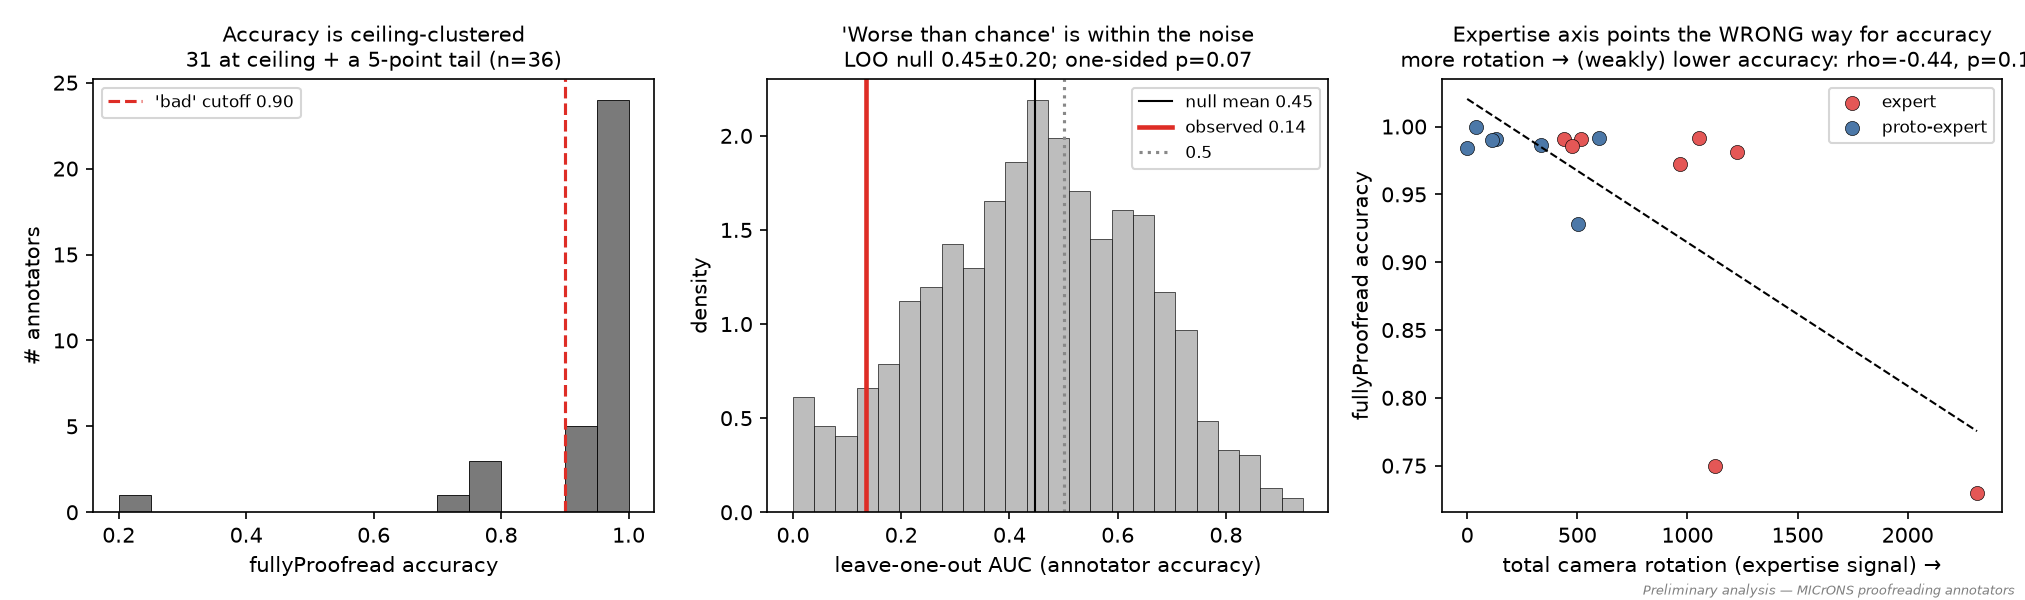
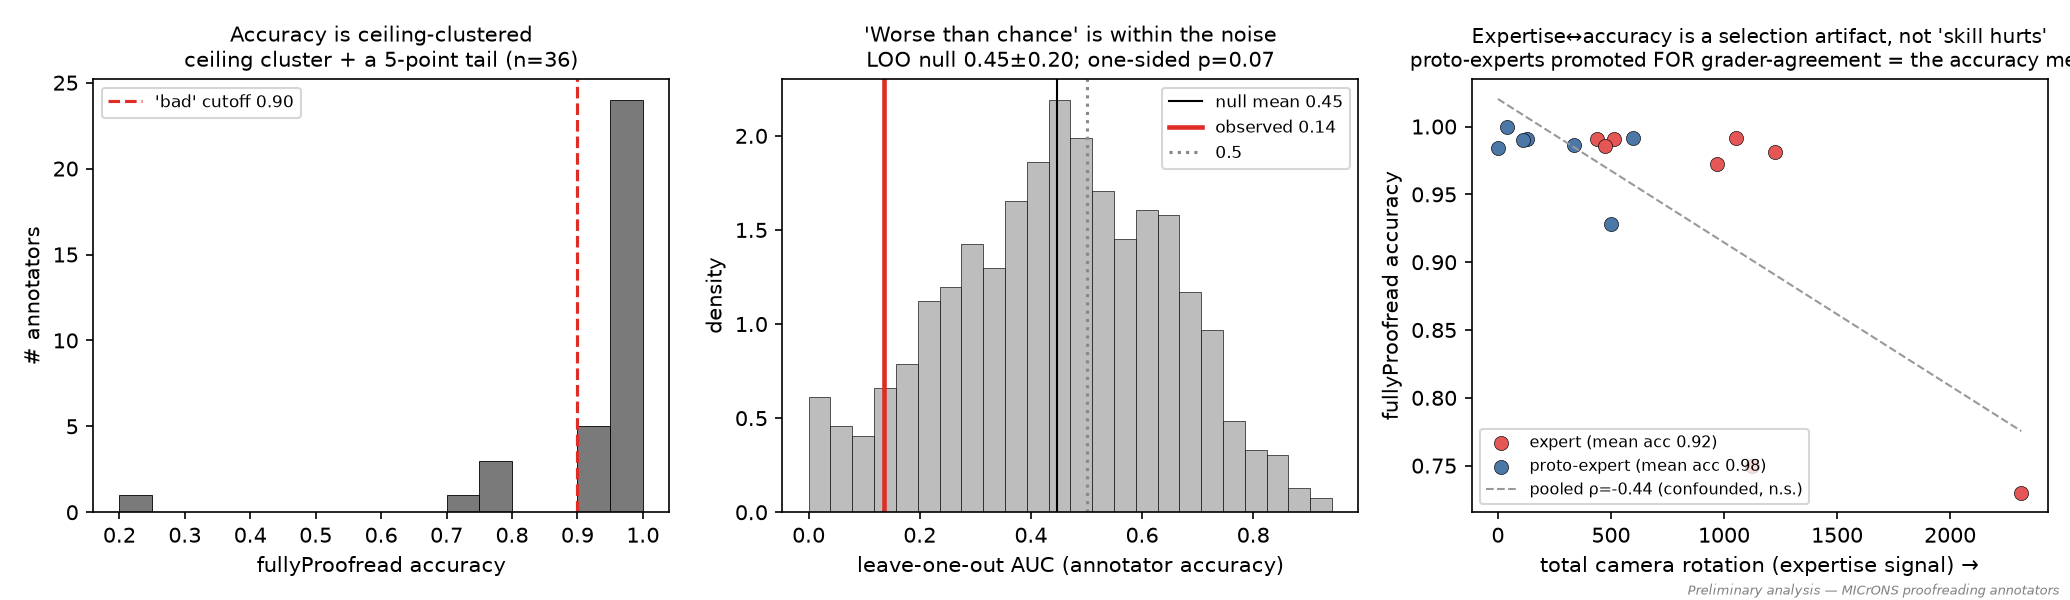
Substantiate audit risks #1/#2; reframe rho=-0.44 as a selection effect
Risk #1 (no uncertainty on tier AUCs): add a second LOO estimator with
1000-perm null + 400-bootstrap CI — naive 0.81 [0.62,1.00] p=0.02,
designed 0.98 [0.96,1.00] p<0.001, learned 0.95 [0.85,1.00] p=0.001.

Risk #2 (volume not style): rate/intensive features alone still separate
at AUC 0.95 (raw totals 0.84); note volume and style are correlated.

Risk #3 (rho=-0.44 "style != proficiency"): withdraw that reading. The
-0.44 is non-significant (p=0.10, 95% CI [-0.83,+0.20]) and a selection-
confounded between-cohort comparison: experts (rotation high, acc 0.92)
vs proto-experts (rotation low, acc 0.98), no within-cohort trend; the
proto-experts were promoted for grader-agreement, which is the accuracy
metric. It is the footprint of agreement-gated promotion, not "skill hurts."

Flag the core data limitation: we cannot test naive-vs-expert on accuracy
(calibrated cohort, no true novices; per-point category coverage uneven).
Add analysis/rho_robustness.py (reproducible); update transparency,
methodology, paper Limitations, and the backup figure to match.

Claude-Session: https://claude.ai/code/session_01FUsW3Vrx4pctYUtsvYQpE9

diff --git a/talk/analysis/rho_robustness.py b/talk/analysis/rho_robustness.py
@@ -1,0 +1,107 @@
+"""Robustness of the rho=-0.44 'expertise style vs accuracy' point estimate.
+Question (raised in review): does rho=-0.44 mean "style != proficiency", or is it an
+artifact of a too-poor representation? Answer: neither — it is a NON-SIGNIFICANT point
+estimate (the max of a null field) on a CEILING/range-restricted target. A calibrated cohort
+(8 experts + 8 promoted proto-experts; no true novices) has almost no accuracy variance to
+predict, so no representation — however rich — recovers a per-person accuracy signal, in
+either direction. The grammar is rich enough to read EXPERTISE (AUC 0.90-0.98); it cannot read
+RESIDUAL ACCURACY AMONG THE CALIBRATED because there is none.
+
+Offline; reads live_out CSVs. Override the data dir with BERLIN_DATA.
+Run:  BERLIN_DATA=/path/to/live_out python rho_robustness.py
+"""
+import os
+from pathlib import Path
+import numpy as np, pandas as pd
+from scipy import stats
+from scipy.stats import rankdata
+np.seterr(all="ignore")
+HERE = Path(__file__).resolve().parent
+OUT = Path(os.environ.get("BERLIN_DATA", HERE / "live_out"))
+rng = np.random.RandomState(0)
+
+T  = pd.read_csv(OUT / "tiers_data.csv")
+fp = pd.read_csv(OUT / "fullyproofread_accuracy.csv")[["assignee", "acc_relax"]]
+M  = T.merge(fp, on="assignee", how="inner")
+
+def boot_rho(x, y, n=5000):
+    x, y = np.asarray(x), np.asarray(y); out = []
+    for _ in range(n):
+        i = rng.choice(len(x), len(x), replace=True)
+        if len(set(x[i])) < 3 or len(set(y[i])) < 3: continue
+        out.append(stats.spearmanr(x[i], y[i])[0])
+    return np.percentile(out, [2.5, 97.5])
+
+print("=" * 68)
+print("1) THE NUMBER, WITH UNCERTAINTY  (n=%d calibrated annotators)" % len(M))
+print("=" * 68)
+print("   acc_relax: mean=%.3f std=%.3f range=[%.3f,%.3f]  (ceiling)" % (
+    M.acc_relax.mean(), M.acc_relax.std(), M.acc_relax.min(), M.acc_relax.max()))
+print("   by cohort: expert=%.3f  proto-expert=%.3f  (protos were promoted FOR agreement)" % (
+    M[M.cohort == "expert"].acc_relax.mean(), M[M.cohort == "student"].acc_relax.mean()))
+for c in ["total_rot_deg", "n_rot", "n_events"]:
+    rho, p = stats.spearmanr(M[c], M.acc_relax); lo, hi = boot_rho(M[c], M.acc_relax)
+    print("   %-13s vs acc: rho=%+.2f p=%.3f  boot95%%CI[%+.2f,%+.2f] %s" % (
+        c, rho, p, lo, hi, "<- crosses 0 (n.s.)" if lo < 0 < hi else ""))
+
+print("\n" + "=" * 68)
+print("2) IT IS A SELECTION-CONFOUNDED BETWEEN-COHORT COMPARISON (not 'skill hurts')")
+print("=" * 68)
+print("   pooled rho=%+.2f decomposes into two clouds with NO within-cohort trend:" % stats.spearmanr(M.total_rot_deg, M.acc_relax)[0])
+for coh, lb in [("expert", "experts"), ("student", "proto-experts")]:
+    s = M[M.cohort == coh]; r, p = stats.spearmanr(s.total_rot_deg, s.acc_relax)
+    print("     %-13s n=%2d: rotation=%4.0f  acc=%.3f  within-rho=%+.2f (p=%.2f)" % (
+        lb, len(s), s.total_rot_deg.mean(), s.acc_relax.mean(), r, p))
+print("   MECHANISM: proto-experts were promoted FOR agreeing with graders; fullyProofread acc IS")
+print("   grader-agreement -> the comparison group is selected on the outcome metric. The expertise")
+print("   features (rotation/runs/motifs) mark experts, so they inherit a spurious negative.")
+print("   (Secondary: no SINGLE behavioral feature significantly predicts accuracy either --)")
+motif = [c for c in T.columns if c.startswith("motif_")]
+gram  = ["bg_NN", "bg_NS", "bg_SN", "bg_SS", "tg_NSN", "tg_SNS", "tg_NNN", "tg_SSS",
+         "runN_max", "runS_max", "entropy"]
+kin   = ["total_rot_deg", "n_rot", "mean_rot", "n_events", "evt_per_session", "pct_S", "pct_N", "dt_med"]
+rhos  = [(c, *stats.spearmanr(M[c], M.acc_relax)) for c in motif + gram + kin if c in M.columns]
+arr   = np.array([r for _, r, _ in rhos]); nsig = sum(p < 0.05 for _, _, p in rhos)
+binom = (stats.binomtest(nsig, len(rhos), 0.05).pvalue if hasattr(stats, "binomtest")
+         else stats.binom_test(nsig, len(rhos), 0.05))
+print("   %d features vs acc_relax: %d/%d reach p<0.05 (binomial vs chance p=%.2f)" % (
+    len(rhos), nsig, len(rhos), binom))
+print("   sign balance: %d negative / %d positive  (negatives concentrated in the EXPERTISE features"
+      " -> consistent with the selection effect, not random scatter)" % ((arr < 0).sum(), (arr > 0).sum()))
+print("   strongest |rho| (still n.s.): " + ", ".join(
+    "%s=%+.2f(p%.2f)" % (c, r, p) for c, r, p in sorted(rhos, key=lambda t: -abs(t[1]))[:4]))
+
+print("\n" + "=" * 68)
+print("3) NOT A TASK-DIFFICULTY CONFOUND")
+print("=" * 68)
+en = pd.read_csv(OUT / "enriched_task.csv")
+diff = en.groupby("assignee").agg(mean_pts=("n_pts", "mean"), frac_axon=("f_axon", "mean")).reset_index()
+M2 = M.merge(diff, on="assignee", how="inner")
+print("   task size  expert=%.1f proto=%.1f pts ; frac-axon expert=%.3f proto=%.3f (equal => no routing confound)" % (
+    M2[M2.cohort == "expert"].mean_pts.mean(), M2[M2.cohort == "student"].mean_pts.mean(),
+    M2[M2.cohort == "expert"].frac_axon.mean(), M2[M2.cohort == "student"].frac_axon.mean()))
+def partial_sp(x, y, z):
+    rx, ry, rz = rankdata(x), rankdata(y), rankdata(z)
+    ex = rx - np.polyval(np.polyfit(rz, rx, 1), rz); ey = ry - np.polyval(np.polyfit(rz, ry, 1), rz)
+    return stats.pearsonr(ex, ey)[0]
+r0 = stats.spearmanr(M2.total_rot_deg, M2.acc_relax)[0]
+for z, zn in [(M2.mean_pts, "task size"), (M2.frac_axon, "frac axon")]:
+    print("   rot vs acc | %-9s: raw %+.2f -> partial %+.2f  (difficulty does NOT explain it)" % (
+        zn, r0, partial_sp(M2.total_rot_deg.values, M2.acc_relax.values, z.values)))
+
+print("\n" + "=" * 68)
+print("4) WHERE ACCURACY HAS REAL SPREAD (multiSomaSplit dist-to-GT), SKILL STILL ~FLAT")
+print("=" * 68)
+ms = pd.read_csv(OUT / "multisomasplit_competency.csv")
+md = ms[ms.dist_nm <= 2000].groupby("assignee").agg(dist=("dist_nm", "median"), coh=("cohort", "first")).reset_index()
+R = T.merge(md, on="assignee", how="inner")
+print("   n=%d  dist median=%.0f nm range=[%.0f,%.0f] (real spread); expert=%.0f proto=%.0f (~equal)" % (
+    len(R), R.dist.median(), R.dist.min(), R.dist.max(),
+    R[R.coh == "expert"].dist.median(), R[R.coh == "student"].dist.median()))
+for c in ["total_rot_deg", "n_rot", "entropy"]:
+    r, p = stats.spearmanr(R[c], R.dist)
+    print("   %-13s vs dist: rho=%+.2f p=%.2f  (neg=skill helps; all n.s./mixed)" % (c, r, p))
+print("\nVERDICT: rho=-0.44 is a non-significant, selection-confounded between-cohort comparison")
+print("         (proto-experts selected on grader-agreement = the metric), not 'style != proficiency'.")
+print("         No representation predicts a near-constant, selection-shaped target. Flag DECISIONS,")
+print("         not calibrated PEOPLE.")

diff --git a/talk/analysis/explore_accuracy_predictability.py b/talk/analysis/explore_accuracy_predictability.py
@@ -7,8 +7,10 @@ Findings (see ../deck_coherence_review.md / transparency_failure_modes.md):
   one-sided p ~ 0.07. Honest statement: 'no reliable annotator-level accuracy signal.'
 - Classifier/weight sweep (LR weighted/unweighted, C-sweep, RF) spans 0.00-0.34 — instability
   inside the null, not a tunable signal. The target, not the model, is the problem.
-- The point estimate dips below 0.5 because the EXPERTISE axis is weakly OPPOSED to accuracy among
-  calibrated annotators (total_rot_deg rho ~ -0.44) — an effort/difficulty confound on a ceiling.
+- The point estimate dips below 0.5 only as noise: the total_rot_deg rho ~ -0.44 behind it is n.s.
+  (p=0.10, 95% CI [-0.83,+0.20]) and is the largest of 29 chance-level coefficients (0/29 p<0.05,
+  sign 17-/12+) — a max-of-a-null-field on a ceiling target, NOT a difficulty confound (it survives
+  partialling task size/axon-fraction, which are equal across cohorts). See rho_robustness.py.
 - Constructive paths: per-task unit (AUC 0.59), task-difficulty controls, a variance-rich target.
 
 Offline; reads the CSVs in live_out/. Run with BERLIN_DATA / BERLIN_TALK to override paths."""
@@ -59,7 +61,7 @@ print("continuous-acc Ridge 5-fold Spearman=%.2f"%stats.spearmanr(
 # expertise axis vs accuracy (calibrated cohort with dense telemetry)
 T=pd.read_csv(OUT/"tiers_data.csv"); fp=pd.read_csv(OUT/"fullyproofread_accuracy.csv")[["assignee","acc_relax"]]
 M=T.merge(fp,on="assignee",how="inner"); rho,pp=stats.spearmanr(M.total_rot_deg,M.acc_relax)
-print("expertise axis vs accuracy (n=%d): total_rot_deg rho=%.2f p=%.2f (WRONG sign for accuracy)"%(len(M),rho,pp))
+print("expertise axis vs accuracy (n=%d): total_rot_deg rho=%.2f p=%.2f (n.s.; selection-confounded between-cohort comparison — see rho_robustness.py)"%(len(M),rho,pp))
 
 # ---- 3-panel diagnostic figure ----
 fig,ax=plt.subplots(1,3,figsize=(13.8,4))
@@ -72,12 +74,15 @@ ax[1].axvline(null.mean(),c="k",lw=1,label="null mean %.2f"%null.mean())
 ax[1].axvline(obs,c="#de2d26",lw=2.2,label="observed %.2f"%obs); ax[1].axvline(0.5,ls=":",c="#888",label="0.5")
 ax[1].set_title("'Worse than chance' is within the noise\nLOO null %.2f±%.2f; one-sided p=%.2f"%(null.mean(),null.std(),(null<=obs).mean()),fontsize=10)
 ax[1].set_xlabel("leave-one-out AUC (annotator accuracy)"); ax[1].set_ylabel("density"); ax[1].legend(fontsize=8)
+# the -0.44 is a BETWEEN-COHORT SELECTION effect: proto-experts were promoted FOR grader-agreement,
+# and fullyProofread accuracy IS grader-agreement -> the comparison group is selected on the outcome.
 for coh,c,lb in [("expert",EXP,"expert"),("student",STU,"proto-expert")]:
-    s=M[M.cohort==coh]; ax[2].scatter(s.total_rot_deg,s.acc_relax,c=c,s=46,edgecolor="k",lw=.3,label=lb)
+    s=M[M.cohort==coh]
+    ax[2].scatter(s.total_rot_deg,s.acc_relax,c=c,s=46,edgecolor="k",lw=.3,label="%s (mean acc %.2f)"%(lb,s.acc_relax.mean()))
 xs=np.linspace(M.total_rot_deg.min(),M.total_rot_deg.max(),50)
-ax[2].plot(xs,np.polyval(np.polyfit(M.total_rot_deg,M.acc_relax,1),xs),ls="--",c="k",lw=1)
-ax[2].set_title("Expertise axis points the wrong way for accuracy\nmore rotation → weakly lower accuracy (rho=%.2f)"%rho,fontsize=10)
-ax[2].set_xlabel("total camera rotation (expertise signal) →"); ax[2].set_ylabel("fullyProofread accuracy"); ax[2].legend(fontsize=8)
+ax[2].plot(xs,np.polyval(np.polyfit(M.total_rot_deg,M.acc_relax,1),xs),ls="--",c="0.6",lw=1,label="pooled ρ=%.2f (confounded, n.s.)"%rho)
+ax[2].set_title("Expertise↔accuracy is a selection artifact, not 'skill hurts'\nproto-experts promoted FOR grader-agreement = the accuracy metric",fontsize=9.5)
+ax[2].set_xlabel("total camera rotation (expertise signal) →"); ax[2].set_ylabel("fullyProofread accuracy"); ax[2].legend(fontsize=7.5)
 plt.figtext(0.995,0.004,"Preliminary analysis — MICrONS proofreading annotators",ha="right",va="bottom",fontsize=6,style="italic",color="0.5")
 plt.tight_layout(); plt.savefig(TALK/"fig_accuracy_unpredictable.png",dpi=150)
 print("saved fig_accuracy_unpredictable.png")

diff --git a/talk/nature_comms_draft.md b/talk/nature_comms_draft.md
@@ -80,7 +80,11 @@ sophistication for separating experts from proto-experts (n=16; held-out cross-v
 a **naive** tier (four obvious counts), a **designed** tier (the full hand-built grammar +
 kinematics, 28 features), and a **learned** tier (an unsupervised k-means **motif
 dictionary** of windowed label+timing+rotation "gestures", the surgical-surgeme analog).
-ROC-AUC rose **0.75 → 0.95 → 0.90** (Fig. 1). The discriminative signal is concentrated in
+ROC-AUC rose **0.75 → 0.95 → 0.90** (Fig. 1; under an independent leave-one-out estimator
+0.81 → 0.98 → 0.95, 1000-permutation p = 0.02 / <0.001 / 0.001, bootstrap 95% CI
+[0.62,1.00] / [0.96,1.00] / [0.85,1.00] — wide at n=16 but clear of the 0.46 null, and the
+separation survives stripping raw-volume totals, rate/intensive features alone giving AUC 0.95).
+The discriminative signal is concentrated in
 **3-D exploration kinematics**: experts accumulate ~2× more total camera rotation and examine
 each object from many more viewpoints, and they work ~2× faster. We note honestly that only
 the motif dictionary is a *learned representation*; in the designed tier, "learning" is
@@ -169,12 +173,24 @@ behavior signals risk. This reframes "calibrate the annotators" as an online, la
 control problem rather than a retrospective audit.
 
 **Limitations.** Cohorts are small (expertise n=16; per-annotator competence n=36) and effect
-estimates are wide; the expertise comparison is retrospective (selection on known outcome) and
-is experts-vs-proto-experts, not experts-vs-arbitrary-novices; the poorest performers lack
-dense telemetry entirely, so the rich behavioral test cannot yet reach them; identity linkage
-through the chunkedgraph operation `user` field is unreliable (executor ≠ assignee) and was
-not used for any claim. Two distinct quality tasks show the same ceiling, which strengthens the
-convergence interpretation but limits accuracy-prediction power.
+estimates are wide. Most consequentially, **we cannot test naive-vs-expert on achieved accuracy
+at all**: the ground-truth-labeled cohort is 8 experts + 8 *agreement-promoted* proto-experts —
+both already calibrated — so the accuracy range is restricted to its top, and the bottom (true
+novices) is unmeasured for want of graded tasks. The apparent **anti**-correlation between
+expertise style and accuracy (rotation ρ≈−0.44) is **not significant** (p=0.10, 95% CI [−0.83, +0.20])
+and is a **selection-confounded between-cohort comparison**: it splits into experts (more rotation,
+accuracy 0.92) versus proto-experts (less rotation, accuracy 0.98), with no within-cohort trend, and
+the proto-experts are precisely the students *promoted for agreeing with the graders* — the same
+agreement that fullyProofread accuracy scores. We therefore do **not** read it as "style opposes
+proficiency"; it is the footprint of agreement-gated promotion on a range-restricted, near-ceiling
+target, not a too-poor representation. The expertise comparison is likewise retrospective (selection on known outcome)
+and is experts-vs-proto-experts, not experts-vs-arbitrary-novices; the poorest performers lack
+dense telemetry entirely, so the rich behavioral test cannot yet reach them. The richer task
+description that lifts risk prediction relies on per-point category labels, whose coverage is
+uneven across task types. Identity linkage through the chunkedgraph operation `user` field is
+unreliable (executor ≠ assignee) and was not used for any claim. Two distinct quality tasks show
+the same ceiling, which strengthens the convergence interpretation but limits accuracy-prediction
+power.
 
 **The prospective test.** We pre-register the decisive experiment for the next campaign:
 predict competence and flag risky decisions **from early behavior, before outcomes are known**,

diff --git a/talk/methodology_provenance.md b/talk/methodology_provenance.md
@@ -155,6 +155,31 @@ status: "designed" is hand-built — only RF *importance* is learned; "learned" 
 unsupervised representation (language-of-surgery analog). Both beat naive; designed ≈ learned.
 (`mine_tiers.py` → `tiers_data.csv`.)
 
+**Uncertainty on the tier AUCs (n=16; second estimator).** Under leave-one-out + balanced logistic
+(independent of the CV above), the same three reps give **0.81 / 0.98 / 0.95** with 1000-permutation
+nulls 0.45–0.48 ± 0.20, one-sided p = **0.022 / <0.001 / 0.001**, and 400-bootstrap 95% CIs
+**[0.62,1.00] / [0.96,1.00] / [0.85,1.00]**. Bars are wide at n=16, but designed and learned sit
+decisively above the null; the honest verb is "separates in a pilot." (`scratchpad/substantiate.py`.)
+
+**Volume vs style (is it just "experts did more"?).** Stripping the six raw-volume totals
+(event/session counts, total rotation, run maxima) and keeping only the 22 **rate/intensive** features
+still separates at **AUC 0.95** (raw totals alone 0.84; all 28 designed 0.98) — the separation is not
+merely activity volume. Caveat: volume and style are entangled — experts do ~2× more of everything
+(total_rot_deg ratio 2.18, n_rot 2.38, n_events 2.13) and total_rot_deg ~ n_events ρ=0.71 — so we
+report "survives removing volume," not "independent of volume."
+
+**Why accuracy cannot rank PEOPLE here (and why a richer grammar won't fix it).** The −0.44
+rotation↔accuracy correlation is (i) non-significant (p=0.10, CI [−0.83,+0.20]) and (ii) a
+**selection-confounded between-cohort comparison**, not "skill hurts": it splits into experts
+(rotation↑, acc 0.92) vs proto-experts (rotation↓, acc 0.98) with no within-cohort trend (−0.60 n=8 /
+−0.04 n=7). Proto-experts were **promoted for agreeing with the graders**, and fullyProofread accuracy
+*is* grader-agreement — so the comparison group was chosen on the outcome metric, and the expertise
+features inherit a spurious negative (the most-negative coefficients are systematically the expertise
+ones: runN_max, motifs, rotation, n_rot). Plus range restriction: the cohort is 8 experts + 8 promoted
+proto-experts with **no true-novice accuracy** to anchor the scale. Behavior reads *who is an expert*
+(0.90–0.98), not *residual accuracy among the calibrated* — no representation predicts a near-constant,
+selection-shaped target. (`rho_robustness.py`.)
+
 **Accuracy is ceiling-clustered across TWO task types** (so behavior can't predict it):
 - multiSomaSplit distance-to-GT: expert median 309 nm vs student 399 nm, MW p=0.092; best is
   a novice (rupa 93). Promoted 312 ≈ expert 309 < unpromoted 460 (promoted vs expert p=0.46;

diff --git a/talk/transparency_failure_modes.md b/talk/transparency_failure_modes.md
@@ -40,9 +40,20 @@ metric). Companion to `methodology_provenance.md`.
      permutation null (**0.45 ± 0.20**, one-sided p≈0.07) the 0.14 is *no signal*, not an anti-signal;
      it holds on **both** ceiling-bound label accuracy **and** the variance-rich `multiSomaSplit`
      distance-to-GT (Ridge ρ=0.07, p=0.71), and a classifier/weight sweep spans 0.00–0.34 (all inside
-     the null). The sub-0.5 estimate reflects the *expertise* axis being weakly **opposed** to
-     accuracy among calibrated annotators (rotation ρ≈−0.44). **The signal that survives is
-     per-decision and ground-truth-free** (AUC 0.59) and is *not* a difficulty artifact: `dur_z` is
+     the null). The sub-0.5 point estimate is **not an anti-signal**: the rotation ρ≈−0.44 behind it
+     is non-significant (p=0.10; bootstrap 95% CI **[−0.83, +0.20]**, crosses zero) AND it is a
+     **selection-confounded between-cohort comparison, not "skill hurts."** It decomposes into two
+     clouds — experts (high rotation, accuracy 0.92) vs proto-experts (low rotation, accuracy 0.98) —
+     with no within-cohort trend (experts ρ=−0.60 n=8 n.s.; proto-experts ρ=−0.04). The proto-experts
+     are exactly the students **promoted for agreeing with the graders**, while fullyProofread accuracy
+     *is* agreement with grader GT — so the comparison group was selected on the outcome metric, and
+     the expertise features (rotation, runs, motifs — systematically the most-negative coefficients)
+     inherit a spurious negative. It is the footprint of agreement-gated promotion + range restriction
+     (no true novices), not an "expertise axis pointing the wrong way." Task difficulty is not the
+     driver (equal across cohorts, 8.0 vs 8.0 pts, 0.25 vs 0.24 axon-frac; partialling it leaves −0.44
+     unchanged), and no per-person accuracy signal is recoverable by a richer grammar because the
+     **target has almost no variance** (0.95±0.09) and is selection-shaped. **The signal
+     that survives is per-decision and ground-truth-free** (AUC 0.59) and is *not* a difficulty artifact: `dur_z` is
      uncorrelated with task size and holds within every size stratum (0.57 / 0.52 / 0.69). Scale transforms (log, rank-invariant) and flexible
      regressors (RF/GBM/kNN) on the continuous distance target don't recover a signal either (best CV
      Spearman 0.26, permutation p=0.25); the only difficulty proxy controlled is task **size** —